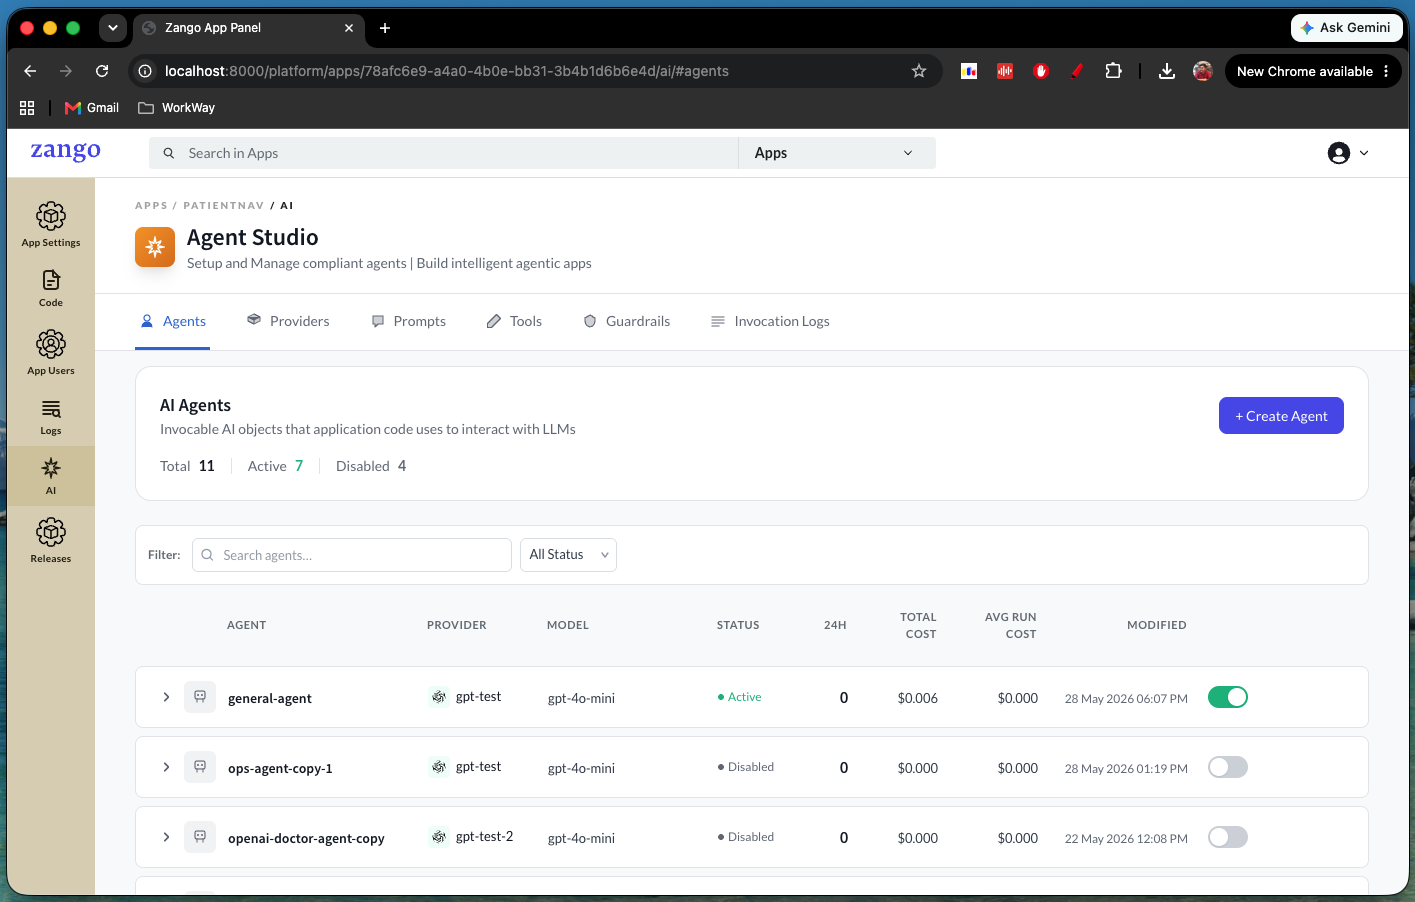
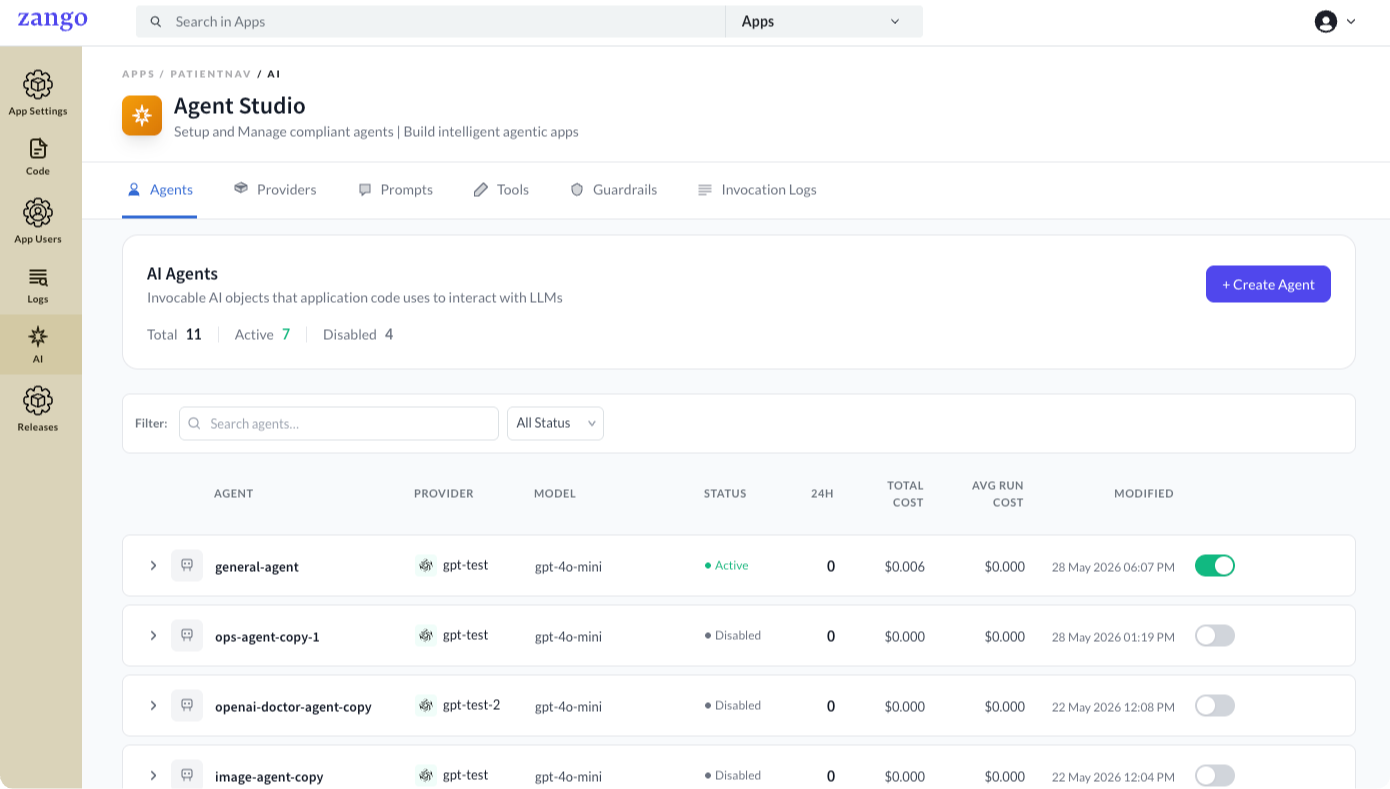
improve image quality and text size

diff --git a/README.md b/README.md
@@ -4,7 +4,7 @@
     </a>
 </h1>
 
-<p align="center"><strong>✨ Django framework to build Agentic AI business applications✨</strong></p>
+<h3 align="center">✨ Django framework to build Agentic AI business applications ✨</h3>
 <hr>  
 <p align="center">
   <a href="#">